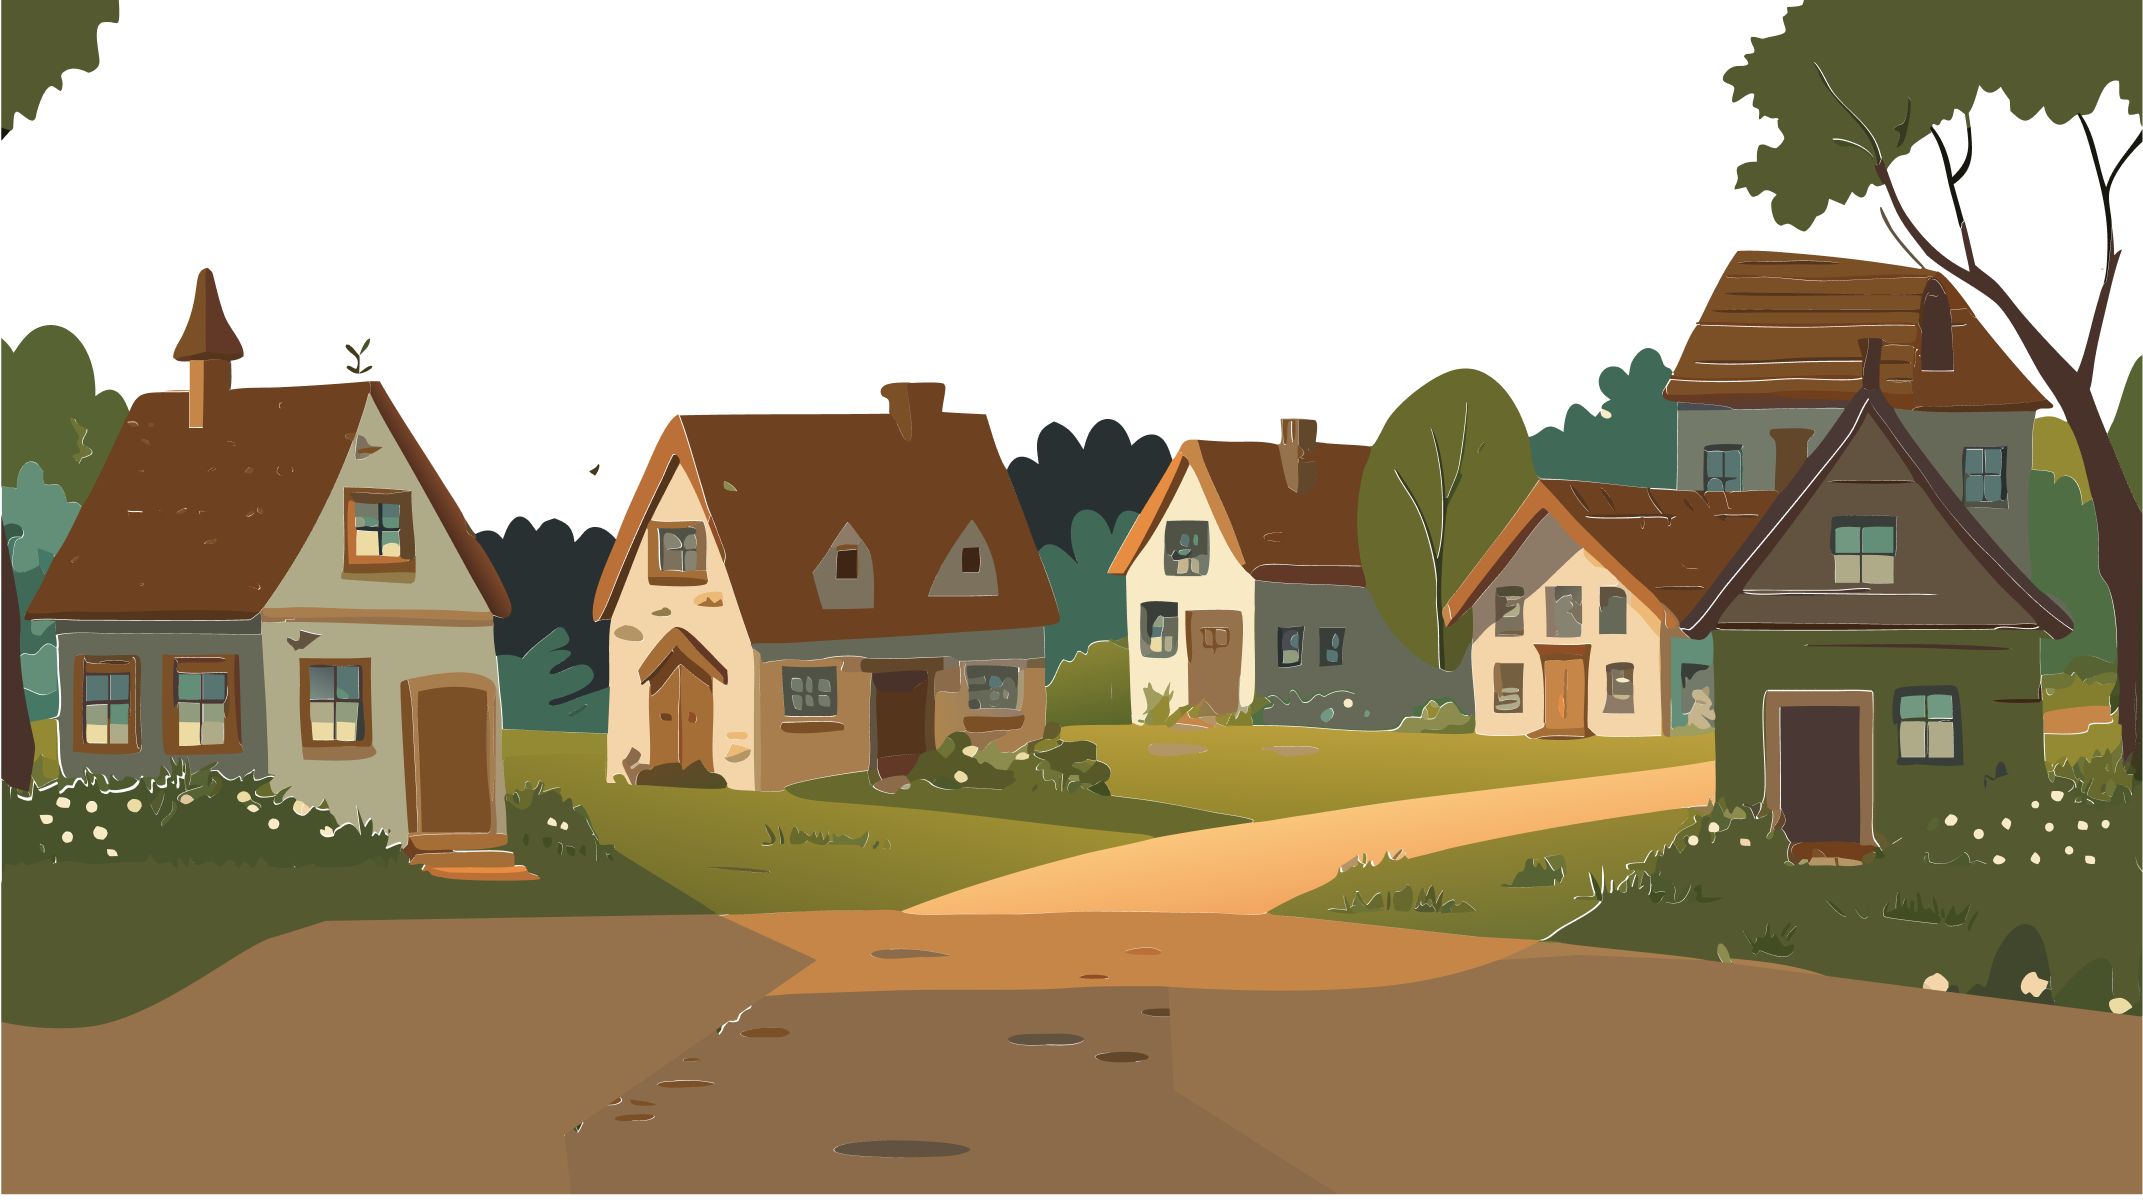
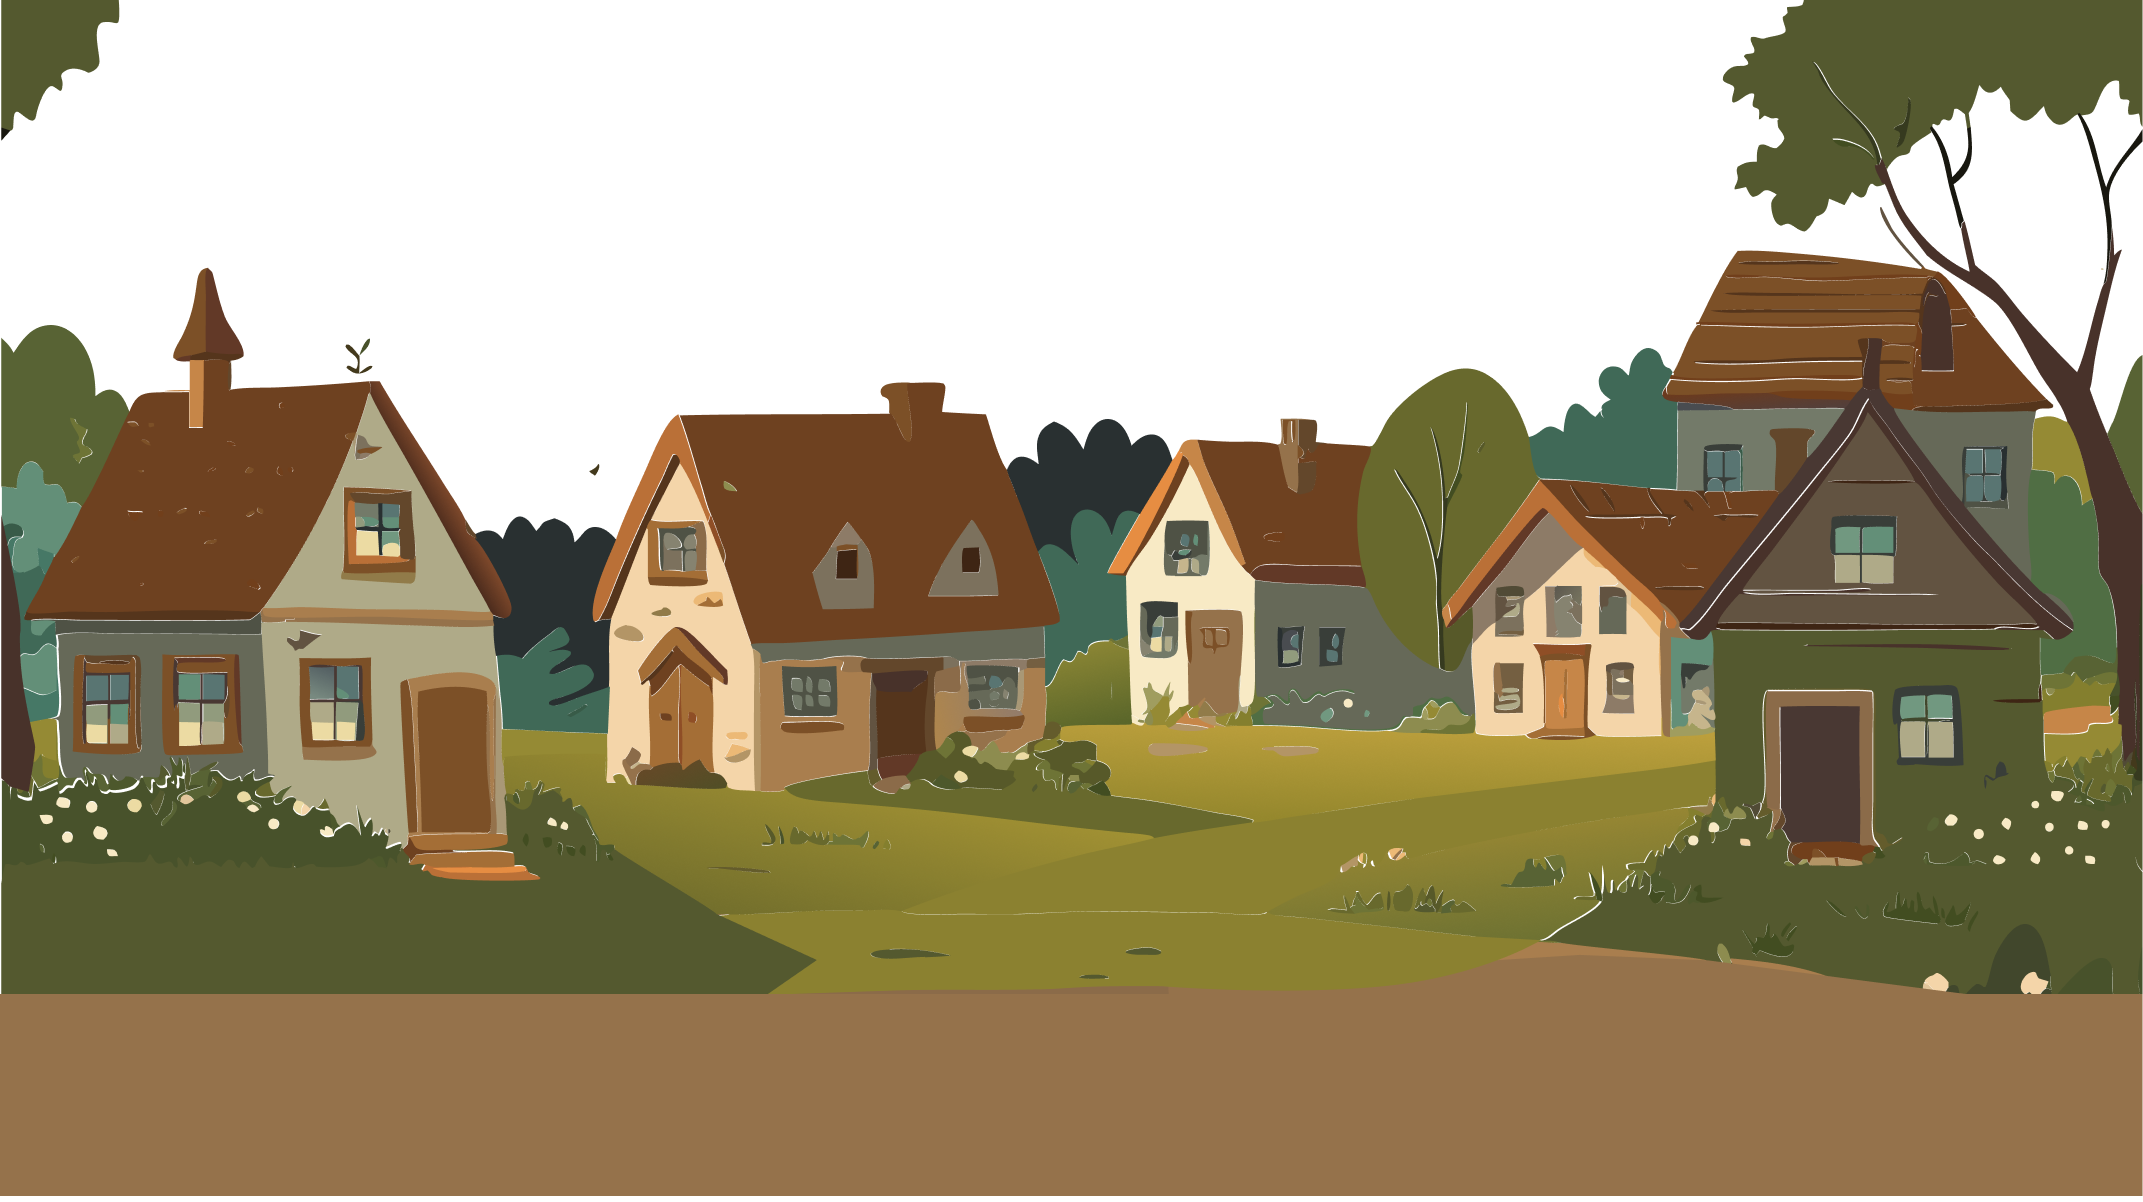
add ekb in game flow

diff --git a/src/features/slides/irkutsk.ts b/src/features/slides/irkutsk.ts
@@ -209,7 +209,6 @@ const irkutskSlides: EpisodeConfig[] = [
               { type: "message", text: "Шаг 3 — Пар: удерживай 'пар/вент' в зелёной зоне (таймер сокращён)." },
               { type: "message", text: "Факты: Главный символ — большие паровые мешочки; классика: говядина/баранина + лук; 'окошко' сверху — традиция." },
               { type: "message", text: "Диалог: \"Если бульон убежит — минус к навыку. Карма спасена талантом повтора.\" — Лера." },
-              { type: "message", text: "Бафф: 'Сытость + Долгая энергия' (TODO: применить бафф в игровой системе)." },
               { type: "message", text: "Заметка в дневник: 'Складки слышат ритм рук. Бууза — тёплая геометрия степи'." },
             ],
           },
@@ -222,7 +221,6 @@ const irkutskSlides: EpisodeConfig[] = [
               { type: "message", text: "Факты: суп на кости, сила из простых вещей; едят густо, чтобы идти далеко." },
               { type: "speech", characterName: "Алексей", text: "Это суп или батарейка?" },
               { type: "speech", characterName: "Лера", text: "Всё сразу. Назовём его пауэр-бульон." },
-              { type: "message", text: "Бафф: 'Тепло + Выносливость' (TODO: применить бафф)." },
               { type: "message", text: "Заметка: 'Сила от костра: кость — длинная нота, картофель — бас'." },
             ],
           },
@@ -236,13 +234,12 @@ const irkutskSlides: EpisodeConfig[] = [
               { type: "message", text: "Факты: версия с омулём; вкус — про прозрачную воду и ответственность." },
               { type: "speech", characterName: "Алексей", text: "Это как если бы воду можно было съесть." },
               { type: "speech", characterName: "Лера", text: "Да. И у воды отличный характер." },
-              { type: "message", text: "Бафф: 'Ясность + Внимание к деталям' (TODO: применить бафф)." },
+              
               { type: "message", text: "Заметка: 'Прозрачность как правило: ровный рез — ровное настроение'." },
             ],
           },
         },
       },
-      { type: "message", text: "TODO: Реализовать мини‑механики свайпов/тасканий/шкал в UI; привязать применение баффов к игровому стейту." },
     ],
   },
 

diff --git a/src/ui/components/game-menu/game-menu.tsx b/src/ui/components/game-menu/game-menu.tsx
@@ -134,6 +134,9 @@ export const GameMenu: React.FC<GameMenuProps> = ({
             <div className={styles.item} onClick={() => onSceneSelection("kamchatka")}>✅ Камчатка</div>
             <div className={styles.item} onClick={() => onSceneSelection("final")}>✅ Финал</div>
             <div className={styles.item} onClick={() => onSceneSelection("moscow")}>✅ Москва</div>
+            <div className={styles.item} onClick={() => onSceneSelection("kazan")}>✅ Казань</div>
+            <div className={styles.item} onClick={() => onSceneSelection("kazan-move")}>🕌 Казань: переход</div>
+            <div className={styles.item} onClick={() => onSceneSelection("kazan-village")}>🕌 Казань: деревня</div>
             {/* <div className={styles.item} onClick={() => onSceneSelection("kazan-move")}>🕌 Казань: переход</div>
             <div className={styles.item} onClick={() => onSceneSelection("flight")}>🛩 Игра полёт</div>
             <div className={styles.item} onClick={() => onSceneSelection("cooking")}>🍳 Игра готовка</div>

diff --git a/src/features/slides/ekb.ts b/src/features/slides/ekb.ts
@@ -1016,6 +1016,12 @@ export const ekbConfig: EpisodeConfig[] = [
             { type: "speech", text: "Учту. До связи, Екат.", characterName: "Алексей" },
             { type: "message", text: "Поезд трогается; огни платформы медленно плывут мимо окна." },
             { type: "thoughts", text: "Город-камертон отзвенел. Дальше — вода и тишина, в которой дед оставлял ответы. Если снова увижу «Солнечную» — значит, я на своём пути." },
+            {
+                type: "button", button: {
+                    text: "В путь",
+                    action: () => { gameFlowManager.showIrkutsk() },
+                }
+            }
         ],
     },
 ];

diff --git a/src/features/slides/kazan.ts b/src/features/slides/kazan.ts
@@ -2503,10 +2503,7 @@ const kazanSlides: EpisodeConfig[] = [
       },
     ],
   },
-  // chats
-
-
-  
+  // chats  
   {
     slideIndex: 39,
     filename: "Screen_39.jpg",
@@ -2776,7 +2773,9 @@ const kazanSlides: EpisodeConfig[] = [
       { type: "speech", characterName: "Рустам", text: "Поехали." },
       {type: "button", button: {
         text: "В путь",
-        action: () => { },
+        action: () => { 
+          gameFlowManager.showEkb();
+        },
       }}
     ],
   },

diff --git a/src/services/game-flow/game-flow-manager.ts b/src/services/game-flow/game-flow-manager.ts
@@ -259,7 +259,7 @@ class GameFlowManager {
   showMoveInKazanVillage() {
     if (!this.game) return;
 
-    const sceneData = MoveSceneMapper.createSceneData("MoveInKazanVillage", {});
+    const sceneData = MoveSceneMapper.createSceneData(GameScene.MoveInKazanVillage, {});
 
     useSceneStore.getState().setScene(GameScene.MoveInKazanVillage, sceneData);
     useSceneStore.getState().setBackgroundLayers(sceneData.backgroundLayers);

diff --git a/src/ui/scenes/move-wrapper.tsx b/src/ui/scenes/move-wrapper.tsx
@@ -89,7 +89,7 @@ export const MoveWrapper = () => {
         }
 
         fetch(getAssetsPath(`data/${sceneParams.questionsPath}`))
-            .then((res) => (res.json()))
+            .then((res) => (console.log("QUESTIONS", res), res.json()))
             .then(({ questions }: { questions: QuizItem[] }) => {
                 console.log("questions", questions);
                 setQuestions(questions);

diff --git a/src/core/state/move-scene-store.ts b/src/core/state/move-scene-store.ts
@@ -310,6 +310,8 @@ export const useMoveSceneStore = create<MoveSceneState>((set, get) => ({
       case GameScene.MoveToGallery:
       case GameScene.MoveInKazan:
       case GameScene.MoveInKazanVillage:
+      case GameScene.MoveInEkb:
+      case GameScene.MoveInIrkutsk:
         useSceneStore.getState().backToPrevScene();
         break;
       case GameScene.MoveToKazan:

diff --git a/src/core/constants/constants.ts b/src/core/constants/constants.ts
@@ -30,7 +30,7 @@ export const GameConstants = {
   MAX_RETRY_ATTEMPTS: 3, // Максимальное количество попыток синхронизации при ошибке
   RETRY_DELAY: seconds(5), // Задержка между попытками при ошибке
 
-  DEBUG_MODE: false,
+  DEBUG_MODE: true,
 };
 
 if (GameConstants.DEBUG_MODE) {

diff --git a/src/app.tsx b/src/app.tsx
@@ -80,6 +80,10 @@ export const App: React.FC = () => {
       case GameScene.MoveToKazan:
       case GameScene.MoveInKazan:
       case GameScene.MoveInKazanVillage:
+      case GameScene.MoveToEkb:
+      case GameScene.MoveInEkb:
+      case GameScene.MoveToIrkutsk:
+      case GameScene.MoveInIrkutsk:
         return <MoveWrapper />;
 
       // others
